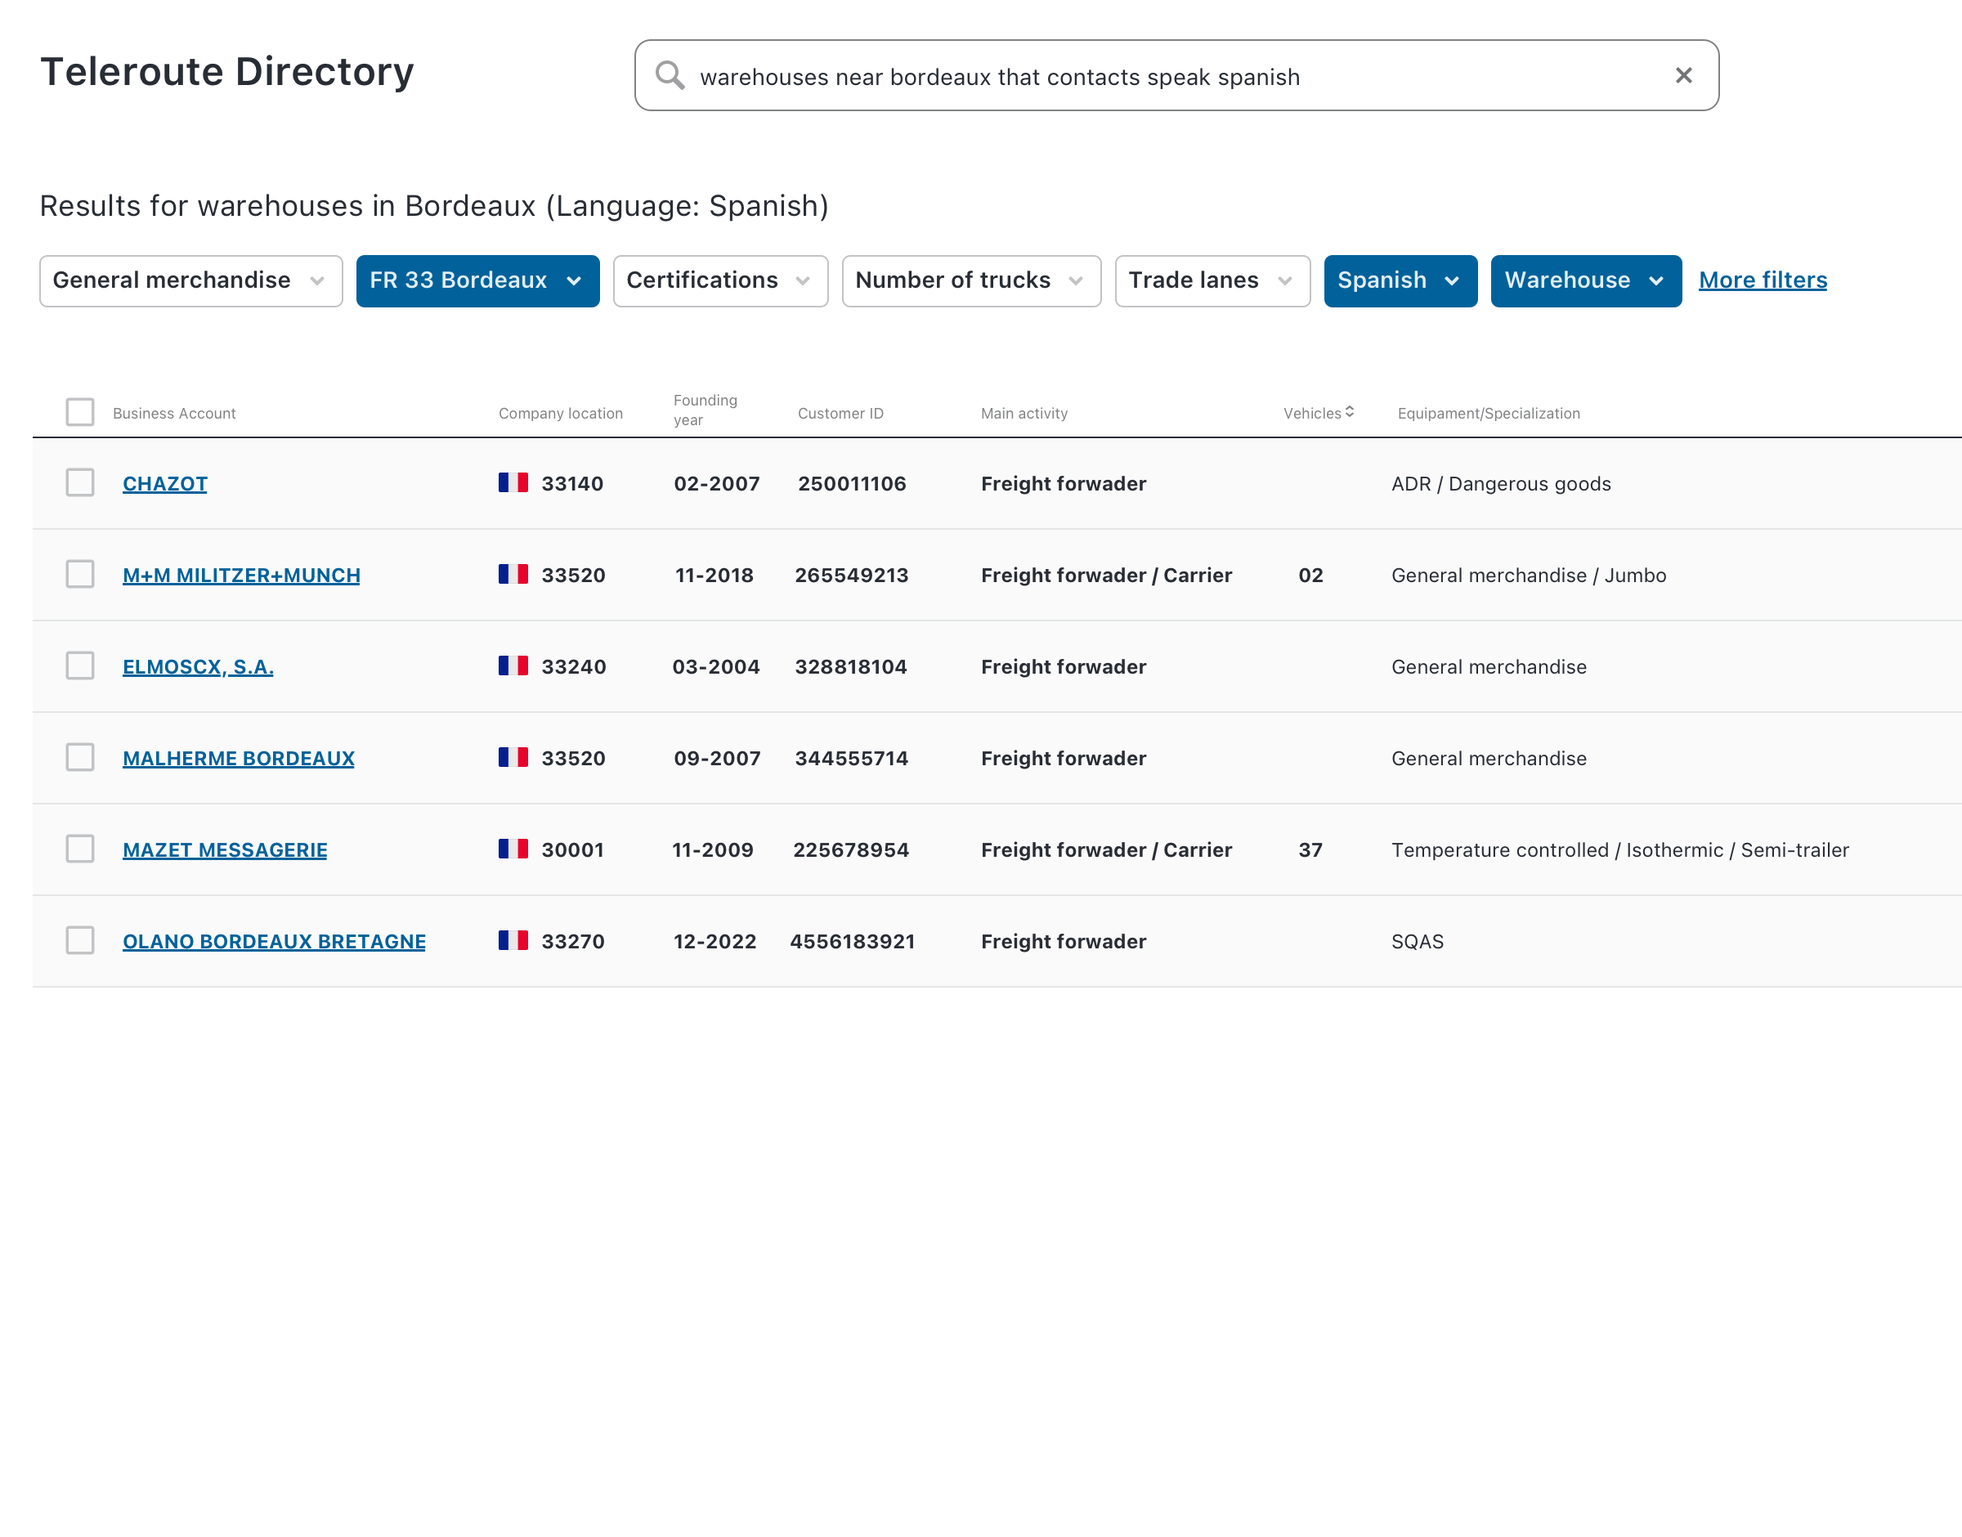
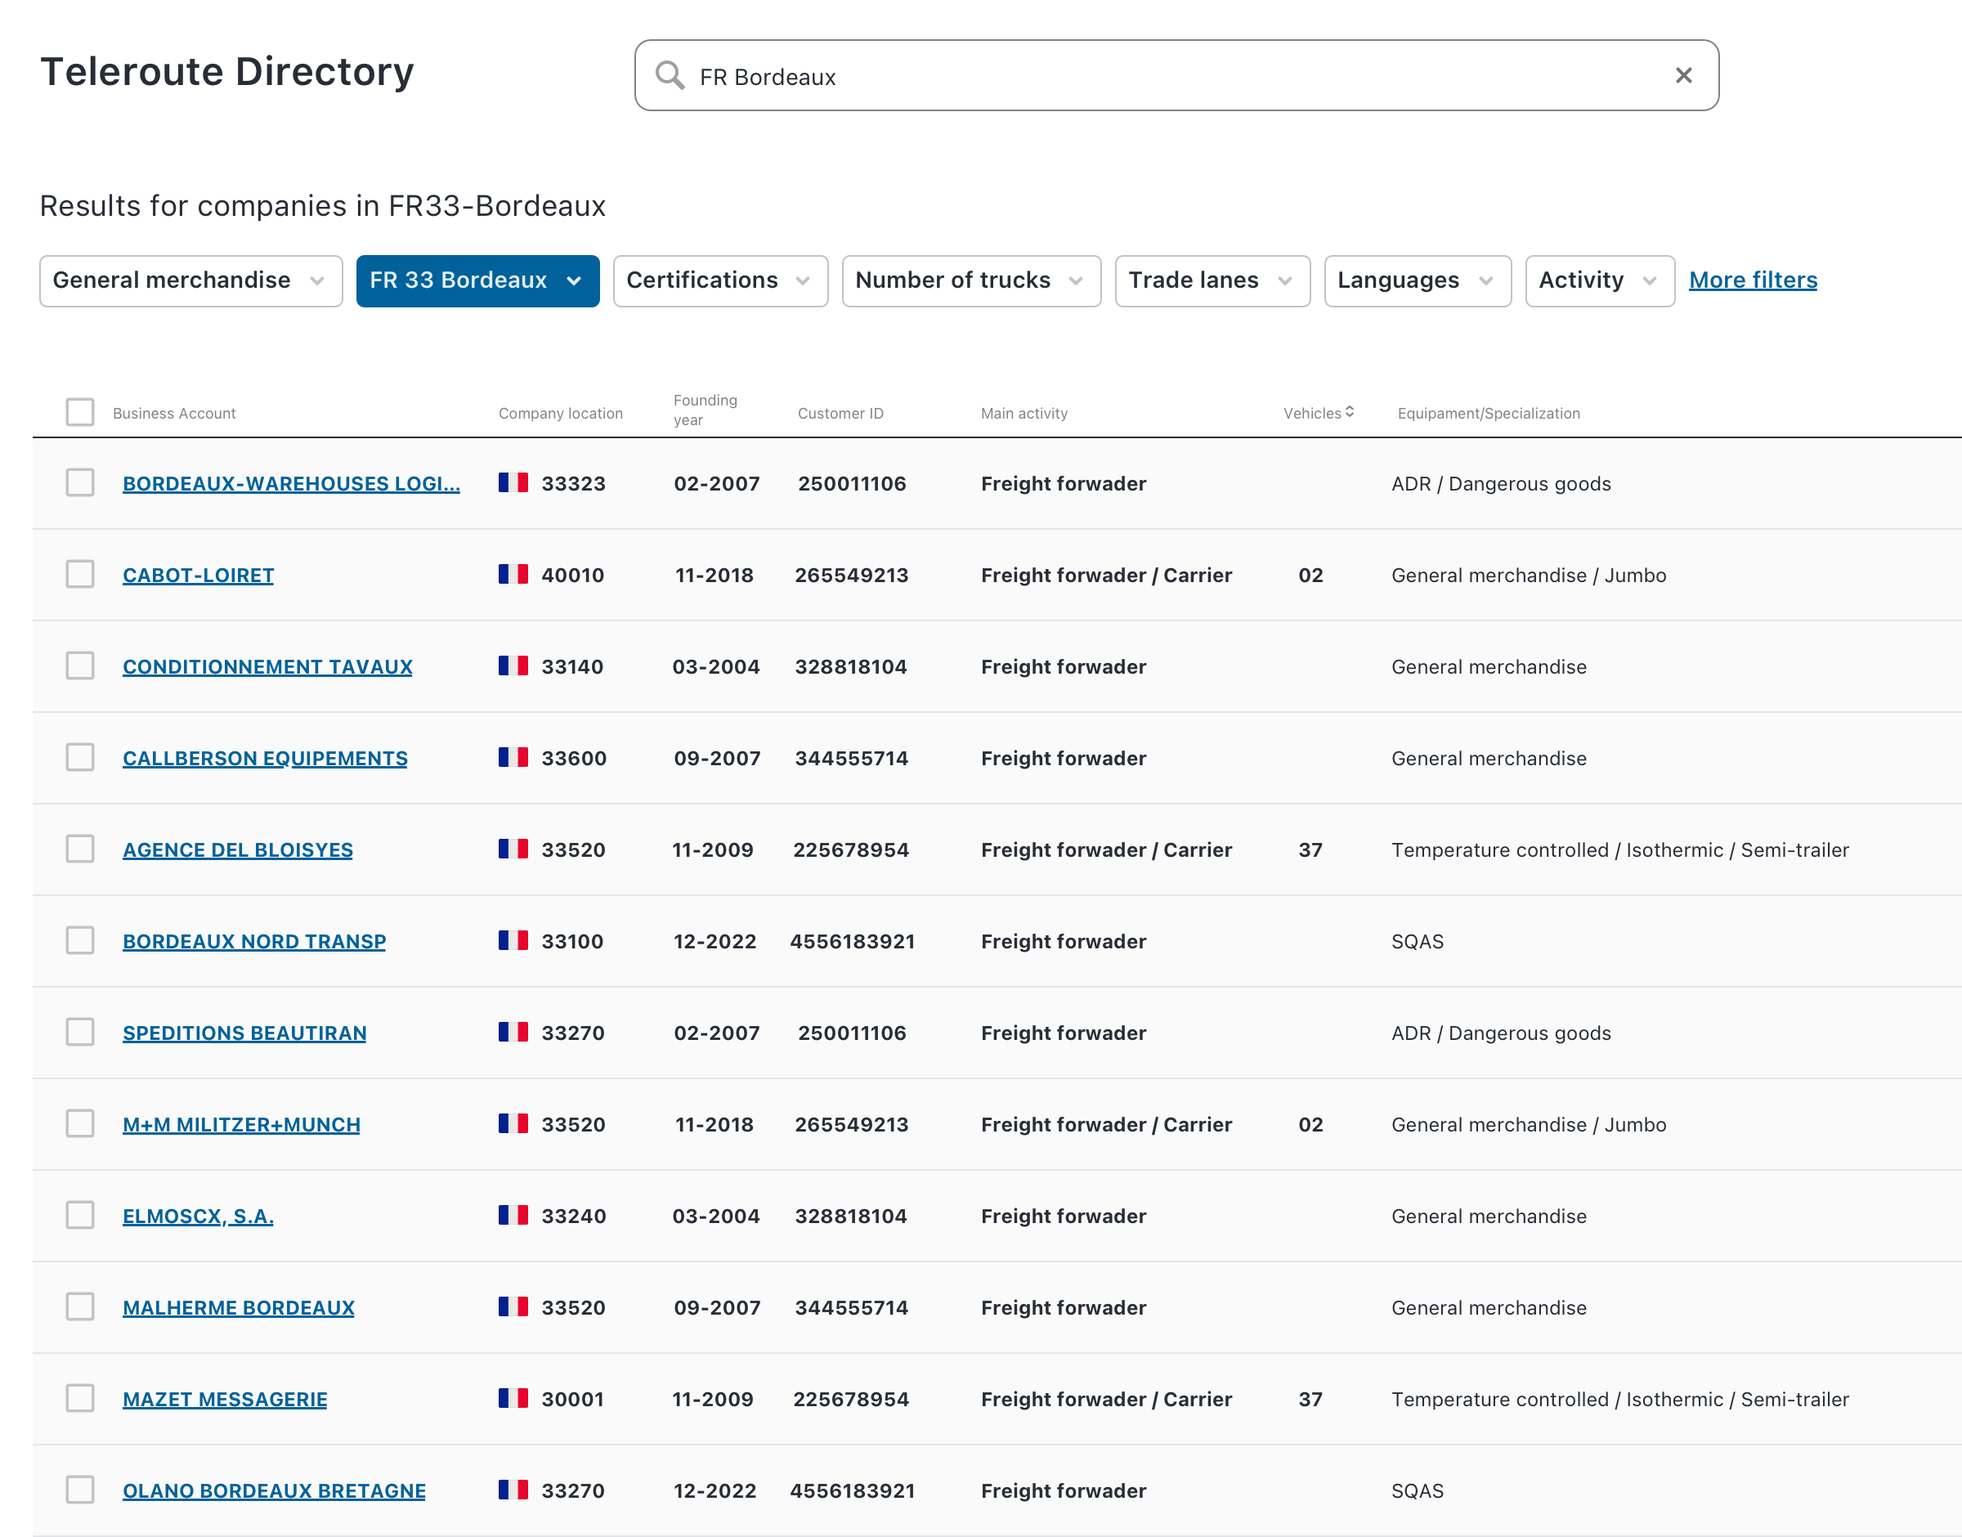
Fixes templates

diff --git a/static/script.js b/static/script.js
@@ -22,7 +22,7 @@ cleanIt = function(st) {
 warehouseTexting = function(stlc) {
   getLIs(st);
   stlc = st.toLowerCase();
-  if (stlc.includes("warehouse")) {
+  if (stlc.includes("warehouse") || stlc.includes("building") || stlc.includes("almacén") || stlc.includes("depósito") || stlc.includes("bodega")) {
     resultDom.innerHTML = pressEnter + findWarehouses + wName33 + wName34 + wName35 + wName36 + wName37 + wName38 + wName39;
   } else if (stlc.includes("warehous") || stlc.includes("warehou")) {
     resultDom.innerHTML = pressEnter + coFrWarehouseBordeauxName12;
@@ -36,10 +36,7 @@ warehouseTexting = function(stlc) {
 bordeauxTexting = function(st) {
   getLIs(st);
   stlc = st.toLowerCase();
-  if (stlc.includes("bordeaux")
-       || stlc.includes("fr33") || stlc.includes("fr 33") || stlc.includes("fr-33") 
-       || stlc.includes("f33") || stlc.includes("f 33") || stlc.includes("f-33")
-       || stlc.includes("33***") || stlc.includes("33000") || stlc.includes("33 ")) 
+  if (stlc.includes("bordeaux") || stlc.includes("fr33") || stlc.includes("fr 33") || stlc.includes("fr-33") || stlc.includes("f33") || stlc.includes("f 33") || stlc.includes("f-33") || stlc.includes("33***") || stlc.includes("33000") || stlc.includes("33 ")) 
   {
     resultDom.innerHTML = pressEnter + findCoFr33Bordeaux + coFrWarehouseBordeauxName12 + coBordeaux16 + coBordeaux17 + coBordeaux18 + coBordeaux19 + coFrBordeauxName14 + coBordeaux20;
   } else if (stlc.includes("bordea")) {
@@ -49,7 +46,7 @@ bordeauxTexting = function(st) {
   } else if (stlc.includes("bord")) {
     resultDom.innerHTML = pressEnter + coFrBordeauxName14 + coFrBordeName15 + bordName26 + bordName25 + bordName27 + bordName28;
   } else if (stlc.includes("bor")) {
-    resultDom.innerHTML = pressEnter + coFrBordeauxName14 + bName25 + borName26 + bName27 + borName28 + bName29 + bName30;
+    resultDom.innerHTML = pressEnter + coFrBordeauxName14 + bordName25 + bordName26 + bordName27 + bordName28 + bName29 + bName30;
   }
 };
 
@@ -102,7 +99,7 @@ numbersTexting = function(st) {
 spanishTexting = function(st){
   getLIs(st);
   stlc = st.toLowerCase();
-  if (stlc.includes("spanish")) {
+  if (stlc.includes("spanish") || stlc.includes("castellano") || stlc.includes("español")) {
     resultDom.innerHTML = pressEnter + findCoSpanish + spanishCo40 + spanishCo41 + spanishCo42 + spanishCo43 + spanishCo44 + spanishCo45 + spanishCo46;
   } else if (stlc.includes("spanis") || stlc.includes("spani")) {
     resultDom.innerHTML = pressEnter + findCoSpanish + spanishCo47 + spanishCo40 + spanishCo48 + spanishCo49 + spanishCo42 + spanishCo43 + spanishCo44;
@@ -112,7 +109,8 @@ spanishTexting = function(st){
 warehouseANDbordeaux = function(st) {
   getLIs(st);
   stlc = st.toLowerCase();
-  if (stlc.includes("warehouse") && stlc.includes("bordeaux")) {
+  if ((stlc.includes("warehouse") || stlc.includes("building") || stlc.includes("almacén") || stlc.includes("depósito") || stlc.includes("bodega")) 
+  && (stlc.includes("bordeaux") || stlc.includes("fr33") || stlc.includes("fr 33") || stlc.includes("fr-33") || stlc.includes("f33") || stlc.includes("f 33") || stlc.includes("f-33"))) {
     resultDom.innerHTML = pressEnter + findWarehousesInBordeaux + findCoFr33Bordeaux + coFrWarehouseBordeauxName12 + coFrBordeauxName14;
   }
 };
@@ -120,10 +118,8 @@ warehouseANDbordeaux = function(st) {
 bordeauxANDspanish = function(st) {
   getLIs(st);
   stlc = st.toLowerCase();
-  if ((stlc.includes("bordeaux")
-       || stlc.includes("fr33") || stlc.includes("fr 33") || stlc.includes("fr-33") 
-       || stlc.includes("f33") || stlc.includes("f 33") || stlc.includes("f-33")) 
-       && stlc.includes("spanish")) {
+  if ((stlc.includes("bordeaux") || stlc.includes("fr33") || stlc.includes("fr 33") || stlc.includes("fr-33") || stlc.includes("f33") || stlc.includes("f 33") || stlc.includes("f-33")) 
+  && (stlc.includes("spanish") || stlc.includes("castellano") || stlc.includes("español"))) {
     resultDom.innerHTML = pressEnter + findCoFr33Bordeaux +  findCoSpanish + coFrBordeauxName14 + coBordeaux18 + coBordeaux19;
   }
 };
@@ -131,7 +127,8 @@ bordeauxANDspanish = function(st) {
 warehouseANDspanish = function(st) {
   getLIs(st);
   stlc = st.toLowerCase();
-  if (stlc.includes("warehouse") && stlc.includes("spanish")) {
+  if ((stlc.includes("warehouse") || stlc.includes("building") || stlc.includes("almacén") || stlc.includes("depósito") || stlc.includes("bodega")) 
+  && (stlc.includes("spanish") || stlc.includes("castellano") || stlc.includes("español"))) {
     resultDom.innerHTML = pressEnter + findWarehouses + findCoSpanish + wareSP50 + wareSP51 + wareSP52 + wareSP53 + wareSP54 + wareSP55;   
   }
 };
@@ -139,11 +136,9 @@ warehouseANDspanish = function(st) {
 warehouseANDbordeauxANDspanish = function(st) {
   getLIs(st);
   stlc = st.toLowerCase();
-  if ((stlc.includes("bordeaux")
-       || stlc.includes("fr33") || stlc.includes("fr 33") || stlc.includes("fr-33") 
-       || stlc.includes("f33") || stlc.includes("f 33") || stlc.includes("f-33")) 
-       && stlc.includes("warehouse") 
-       && stlc.includes("spanish")) {
+  if ((stlc.includes("bordeaux") || stlc.includes("fr33") || stlc.includes("fr 33") || stlc.includes("fr-33") || stlc.includes("f33") || stlc.includes("f 33") || stlc.includes("f-33")) 
+  && (stlc.includes("warehouse") || stlc.includes("building") || stlc.includes("almacén") || stlc.includes("depósito") || stlc.includes("bodega")) 
+  && (stlc.includes("spanish") || stlc.includes("castellano") || stlc.includes("español"))) {
     resultDom.innerHTML = pressEnter + findWarehousesInBordeaux + findCoFr33Bordeaux + findCoSpanish + warehouseBordeauxSp57; 
   }
 };
@@ -184,8 +179,8 @@ getLIs = function(st) {
   bordName26                  = '<li><a href="companyprofile"><svg><use xlink:href="#company"></svg><b>FR 77950	STTEFG INTERNATIONAL</b><span>VAT: FR6658280687	Id: 66453584</span></a></li>';
   bordName27                  = '<li><a href="companyprofile"><svg><use xlink:href="#company"></svg><b>FR 91300	TPC COURCELLAS</b><span>VAT: FR1937521762	Id: 50001111</span></a></li>';
   bordName28                  = '<li><a href="companyprofile"><svg><use xlink:href="#company"></svg><b>FR 59390	ABC XPO FR CELL GROUP</b><span>VAT: FR69500233683	Id: 48420001</span></a></li>';
-  bName29                     = '<li><a href="companyprofile"><svg><use xlink:href="#document"></svg><b>FR 00000	B XXXXXXXXXXXXX</b><span>VAT: FR000000000	Id: 00000000</span></a></li>';
-  bName30                     = '<li><a href="companyprofile"><svg><use xlink:href="#document"></svg><b>FR 00000	B XXXXXXXXXXXXX</b><span>VAT: FR000000000	Id: 00000000</span></a></li>';
+  bName29                     = '<li><a href="companyprofile"><svg><use xlink:href="#document"></svg><b>FR 93210  BARBAR-YVES</b><span>VAT: FR52312316830 Id: 123456000</span></a></li>';
+  bName30                     = '<li><a href="companyprofile"><svg><use xlink:href="#document"></svg><b>FR 07370  BEAUGIER EXPRESS</b><span>VAT: FR12344321890  Id: 475903485</span></a></li>';
   boName31                    = '<li><a href="companyprofile"><svg><use xlink:href="#document"></svg><b>FR 00000	BO XXXXXXXXXXXX</b><span>VAT: FR000000000	Id: 00000000</span></a></li>';
   boName32                    = '<li><a href="companyprofile"><svg><use xlink:href="#document"></svg><b>FR 00000	BO XXXXXXXXXXXX</b><span>VAT: FR000000000	Id: 00000000</span></a></li>';
   borName32                   = '<li><a href="companyprofile"><svg><use xlink:href="#document"></svg><b>FR 00000	BO XXXXXXXXXXXX</b><span>VAT: FR000000000	Id: 00000000</span></a></li>';
@@ -216,11 +211,6 @@ getLIs = function(st) {
   wareSP56                    = '<li><a href="companyprofile"><svg><use xlink:href="#company"></svg><b>FR 33140	CONDITIONNEMENT TAVAUX</b><span>VAT: FR5896987337	Id: 62221082</span></a></li>';
   warehouseBordeauxSp57       = '<li><a href="companyprofile"><svg><use xlink:href="#company"></svg><b>FR 33100	BORDEAUX NORD TRANSP</b><span>VAT: FR8542337668	Id: 97234867</span></a></li>';
 };
-
-function changeColor(newColor) {
-  const elem = document.getElementById("para");
-  elem.style.color = newColor;
-}
 
 clickToCleanIt = function() {
   resultDom.innerHTML = "";

diff --git a/templates/companyprofile.html b/templates/companyprofile.html
@@ -5,8 +5,6 @@
   <title></title>
   <meta name="description" content="">
   <meta name="author" content="">
-  <link rel="icon" href="/favicon.ico">
-  <link rel="icon" href="/favicon.svg" type="image/svg+xml">
   <link rel="apple-touch-icon" href="/apple-touch-icon.png">
   <link rel="stylesheet" href="{{url_for('static', filename='style.css')}}">
   <body class="results" onclick="window.location='/'">
@@ -14,7 +12,20 @@
     <div id="company_profile_title"></div>
     <div id="company_profile_patche"></div>
     <div id="company_profile_logo"></div>
-    <div id="company_profile"><div>
+    <div id="company_profile"></div>
+    <div id="search_input">
+      <input type="text" id="mainQuery" placeholder="Search for name, VAT, City or region, phone, specialization and more...">
+      <span id="tools">
+        <svg><use xlink:href="#filters"></svg>
+        <svg><use xlink:href="#close"></svg>
+      </span>
+      <svg xmlns="http://www.w3.org/2000/svg" style="display:none">
+        <symbol id="filters" viewBox="0 0 24 24"><path d="M9,14 C10.3062521,14 11.4175144,14.8348501 11.8293257,16.0000889 L19.5,16 C19.7761424,16 20,16.2238576 20,16.5 L20,17.5 C20,17.7761424 19.7761424,18 19.5,18 L11.8289758,18.0009007 C11.4168852,19.1656226 10.3058822,20 9,20 C7.69411778,20 6.58311485,19.1656226 6.17102423,18.0009007 L4.5,18 C4.22385763,18 4,17.7761424 4,17.5 L4,16.5 C4,16.2238576 4.22385763,16 4.5,16 L6.17067428,16.0000889 C6.58248558,14.8348501 7.69374794,14 9,14 Z M9,16 C8.44771525,16 8,16.4477153 8,17 C8,17.5522847 8.44771525,18 9,18 C9.55228475,18 10,17.5522847 10,17 C10,16.4477153 9.55228475,16 9,16 Z M15,9 C16.3062521,9 17.4175144,9.8348501 17.8293257,11.0000889 L19.5,11 C19.7761424,11 20,11.2238576 20,11.5 L20,12.5 C20,12.7761424 19.7761424,13 19.5,13 L17.8289758,13.0009007 C17.4168852,14.1656226 16.3058822,15 15,15 C13.6941178,15 12.5831148,14.1656226 12.1710242,13.0009007 L4.5,13 C4.22385763,13 4,12.7761424 4,12.5 L4,11.5 C4,11.2238576 4.22385763,11 4.5,11 L12.1706743,11.0000889 C12.5824856,9.8348501 13.6937479,9 15,9 Z M15,11 C14.4477153,11 14,11.4477153 14,12 C14,12.5522847 14.4477153,13 15,13 C15.5522847,13 16,12.5522847 16,12 C16,11.4477153 15.5522847,11 15,11 Z M9,4 C10.3062521,4 11.4175144,4.8348501 11.8293257,6.00008893 L19.5,6 C19.7761424,6 20,6.22385763 20,6.5 L20,7.5 C20,7.77614237 19.7761424,8 19.5,8 L11.8289758,8.00090072 C11.4168852,9.16562257 10.3058822,10 9,10 C7.69411778,10 6.58311485,9.16562257 6.17102423,8.00090072 L4.5,8 C4.22385763,8 4,7.77614237 4,7.5 L4,6.5 C4,6.22385763 4.22385763,6 4.5,6 L6.17067428,6.00008893 C6.58248558,4.8348501 7.69374794,4 9,4 Z M9,6 C8.44771525,6 8,6.44771525 8,7 C8,7.55228475 8.44771525,8 9,8 C9.55228475,8 10,7.55228475 10,7 C10,6.44771525 9.55228475,6 9,6 Z"/>
+        </symbol>
+        <symbol id="close" viewBox="0 0 24 24"><path d="M12.5,5.82842712 C12.7761424,5.82842712 13,6.05228475 13,6.32842712 L12.9994271,10.9994271 L17.6715729,11 C17.9477153,11 18.1715729,11.2238576 18.1715729,11.5 L18.1715729,12.5 C18.1715729,12.7761424 17.9477153,13 17.6715729,13 L12.9994271,12.9994271 L13,17.6715729 C13,17.9477153 12.7761424,18.1715729 12.5,18.1715729 L11.5,18.1715729 C11.2238576,18.1715729 11,17.9477153 11,17.6715729 L10.9994271,12.9994271 L6.32842712,13 C6.05228475,13 5.82842712,12.7761424 5.82842712,12.5 L5.82842712,11.5 C5.82842712,11.2238576 6.05228475,11 6.32842712,11 L10.9994271,10.9994271 L11,6.32842712 C11,6.05228475 11.2238576,5.82842712 11.5,5.82842712 L12.5,5.82842712 Z" transform="translate(12.000000, 12.000000) rotate(45.000000) translate(-12.000000, -12.000000)"/>
+        </symbol>
+      </svg>
+    </div>
   </body>
   <script src="{{url_for('static', filename='script.js')}}"></script>
 </html>

diff --git a/templates/frbrwarehousesspanishcontacts.html b/templates/frbrwarehousesspanishcontacts.html
@@ -5,8 +5,6 @@
   <title></title>
   <meta name="description" content="">
   <meta name="author" content="">
-  <link rel="icon" href="/favicon.ico">
-  <link rel="icon" href="/favicon.svg" type="image/svg+xml">
   <link rel="apple-touch-icon" href="/apple-touch-icon.png">
   <link rel="stylesheet" href="{{url_for('static', filename='style.css')}}">
   <body class="results" onclick="window.location='/'">
@@ -16,6 +14,7 @@
         <img src="/static/imgs/frbrwarehousesspanishcontacts.png">
       </div>
     </div>
+    <div id="mainQuery"></div>
   </body>
   <script src="{{url_for('static', filename='script.js')}}"></script>
 </html>

diff --git a/templates/spanishcontacts.html b/templates/spanishcontacts.html
@@ -5,8 +5,6 @@
   <title></title>
   <meta name="description" content="">
   <meta name="author" content="">
-  <link rel="icon" href="/favicon.ico">
-  <link rel="icon" href="/favicon.svg" type="image/svg+xml">
   <link rel="apple-touch-icon" href="/apple-touch-icon.png">
   <link rel="stylesheet" href="{{url_for('static', filename='style.css')}}">
   <body class="results" onclick="window.location='/'">
@@ -16,6 +14,7 @@
         <img src="/static/imgs/spanishcontacts.png">
       </div>
     </div>
+    <div id="mainQuery"></div>
   </body>
   <script src="{{url_for('static', filename='script.js')}}"></script>
 </html>

diff --git a/templates/frbrwarehouses.html b/templates/frbrwarehouses.html
@@ -5,8 +5,6 @@
   <title></title>
   <meta name="description" content="">
   <meta name="author" content="">
-  <link rel="icon" href="/favicon.ico">
-  <link rel="icon" href="/favicon.svg" type="image/svg+xml">
   <link rel="apple-touch-icon" href="/apple-touch-icon.png">
   <link rel="stylesheet" href="{{url_for('static', filename='style.css')}}">
   <body class="results" onclick="window.location='/'">
@@ -16,6 +14,7 @@
         <img src="/static/imgs/frbrwarehouses.png">
       </div>
     </div>
+    <div id="mainQuery"></div>
   </body>
   <script src="{{url_for('static', filename='script.js')}}"></script>
 </html>

diff --git a/templates/frbrcompanies.html b/templates/frbrcompanies.html
@@ -5,8 +5,6 @@
   <title></title>
   <meta name="description" content="">
   <meta name="author" content="">
-  <link rel="icon" href="/favicon.ico">
-  <link rel="icon" href="/favicon.svg" type="image/svg+xml">
   <link rel="apple-touch-icon" href="/apple-touch-icon.png">
   <link rel="stylesheet" href="{{url_for('static', filename='style.css')}}">
   <body class="results" onclick="window.location='/'">
@@ -16,6 +14,7 @@
         <img src="/static/imgs/frbrcompanies.png">
       </div>
     </div>
+    <div id="mainQuery"></div>
   </body>
   <script src="{{url_for('static', filename='script.js')}}"></script>
 </html>

diff --git a/templates/warehouses.html b/templates/warehouses.html
@@ -5,8 +5,6 @@
   <title></title>
   <meta name="description" content="">
   <meta name="author" content="">
-  <link rel="icon" href="/favicon.ico">
-  <link rel="icon" href="/favicon.svg" type="image/svg+xml">
   <link rel="apple-touch-icon" href="/apple-touch-icon.png">
   <link rel="stylesheet" href="{{url_for('static', filename='style.css')}}">
   <body class="results" onclick="window.location='/'">
@@ -16,6 +14,7 @@
         <img src="/static/imgs/warehouses.png">
       </div>
     </div>
+    <div id="mainQuery"></div>
   </body>
   <script src="{{url_for('static', filename='script.js')}}"></script>
 </html>

diff --git a/templates/home.html b/templates/home.html
@@ -5,8 +5,6 @@
   <title></title>
   <meta name="description" content="">
   <meta name="author" content="">
-  <link rel="icon" href="/favicon.ico">
-  <link rel="icon" href="/favicon.svg" type="image/svg+xml">
   <link rel="apple-touch-icon" href="/apple-touch-icon.png">
   <link rel="stylesheet" href="{{url_for('static', filename='style.css')}}">
   <body>

diff --git a/static/style.css b/static/style.css
@@ -279,6 +279,14 @@ div#warehouses_bg {
   background-size: 1200px 940px;
 }
 
+div#search_input {
+  width: 552px;
+  height: 40px;
+  position: absolute;
+  top: 71px;
+  left: 50%;
+  margin-left: -276px;
+}
 
 footer {
   width: 1000px;
